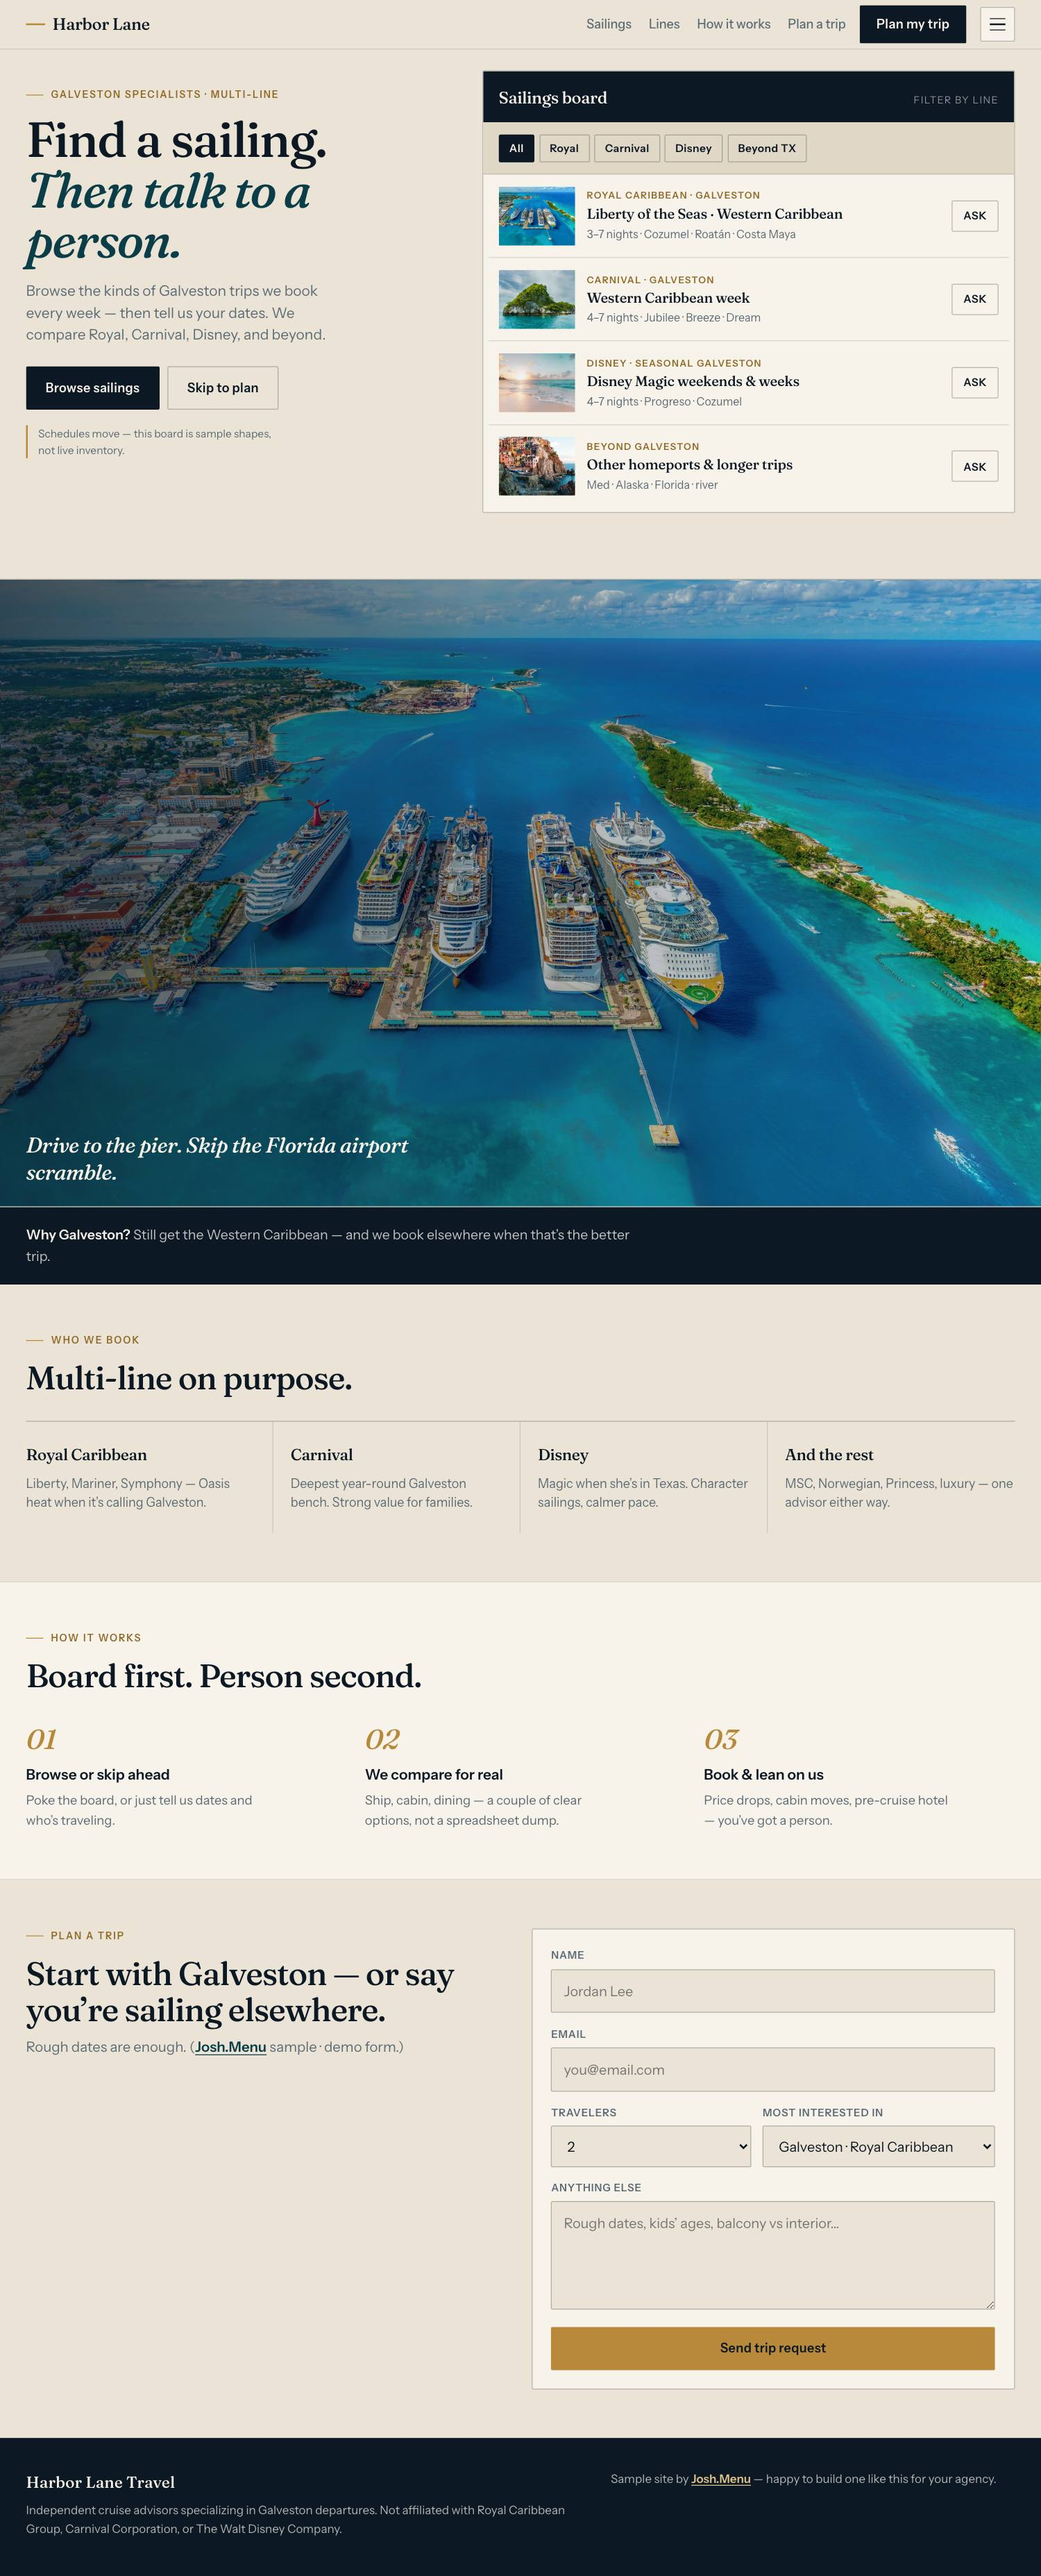
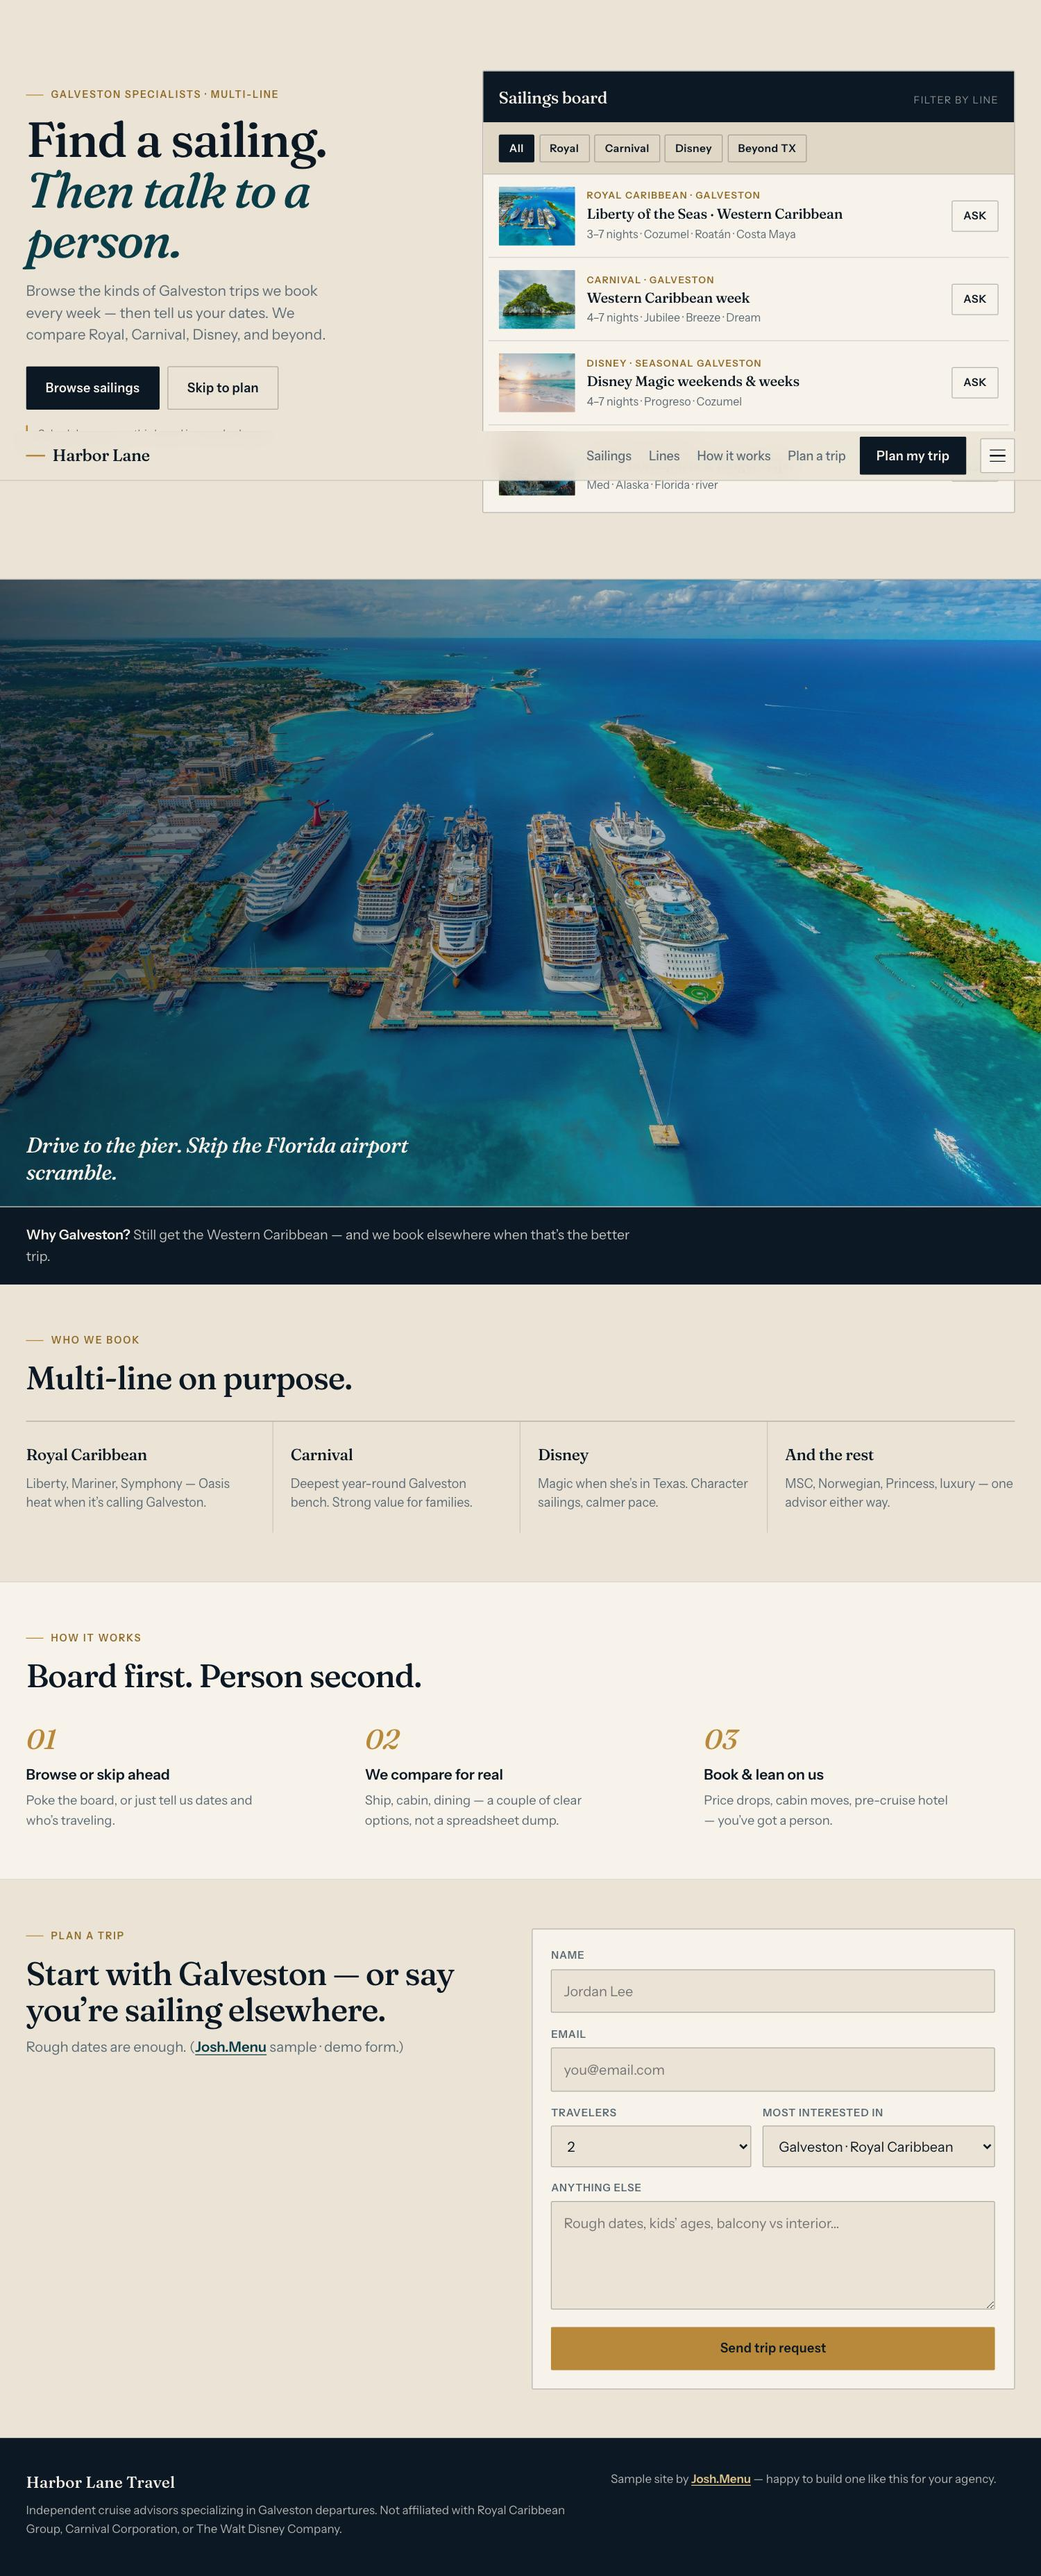
Recapture sample tallshots after warming lazy-loaded images.
Scroll the full page before screenshot so hero/section photos paint in the previews.

diff --git a/index.html b/index.html
@@ -219,7 +219,7 @@
                                 <span class="sample-scroll__url">harborlane.demo</span>
                             </div>
                             <div class="sample-scroll__viewport">
-                                <img class="sample-scroll__page" src="/images/samples/harbor-lane.jpg?v=1" alt="" width="1280" height="3200" loading="lazy" decoding="async">
+                                <img class="sample-scroll__page" src="/images/samples/harbor-lane.jpg?v=2" alt="" width="1280" height="3200" loading="lazy" decoding="async">
                             </div>
                             <span class="sample-card__badge">Sample</span>
                         </div>
@@ -239,7 +239,7 @@
                                 <span class="sample-scroll__url">northline.demo</span>
                             </div>
                             <div class="sample-scroll__viewport">
-                                <img class="sample-scroll__page" src="/images/samples/northline.jpg?v=1" alt="" width="1280" height="3200" loading="lazy" decoding="async">
+                                <img class="sample-scroll__page" src="/images/samples/northline.jpg?v=2" alt="" width="1280" height="3200" loading="lazy" decoding="async">
                             </div>
                             <span class="sample-card__badge">Sample</span>
                         </div>
@@ -259,7 +259,7 @@
                                 <span class="sample-scroll__url">holloway.demo</span>
                             </div>
                             <div class="sample-scroll__viewport">
-                                <img class="sample-scroll__page" src="/images/samples/holloway.jpg?v=1" alt="" width="1280" height="3200" loading="lazy" decoding="async">
+                                <img class="sample-scroll__page" src="/images/samples/holloway.jpg?v=2" alt="" width="1280" height="3200" loading="lazy" decoding="async">
                             </div>
                             <span class="sample-card__badge">Sample</span>
                         </div>

diff --git a/samples/index.html b/samples/index.html
@@ -53,7 +53,7 @@
                             <span class="sample-scroll__url">harborlane.demo</span>
                         </div>
                         <div class="sample-scroll__viewport">
-                            <img class="sample-scroll__page" src="/images/samples/harbor-lane.jpg?v=1" alt="" width="1200" height="3000" loading="eager" decoding="async">
+                            <img class="sample-scroll__page" src="/images/samples/harbor-lane.jpg?v=2" alt="" width="1200" height="3000" loading="eager" decoding="async">
                         </div>
                         <span class="sample-card__badge">Sample</span>
                     </div>
@@ -73,7 +73,7 @@
                             <span class="sample-scroll__url">northline.demo</span>
                         </div>
                         <div class="sample-scroll__viewport">
-                            <img class="sample-scroll__page" src="/images/samples/northline.jpg?v=1" alt="" width="1200" height="3000" loading="lazy" decoding="async">
+                            <img class="sample-scroll__page" src="/images/samples/northline.jpg?v=2" alt="" width="1200" height="3000" loading="lazy" decoding="async">
                         </div>
                         <span class="sample-card__badge">Sample</span>
                     </div>
@@ -93,7 +93,7 @@
                             <span class="sample-scroll__url">holloway.demo</span>
                         </div>
                         <div class="sample-scroll__viewport">
-                            <img class="sample-scroll__page" src="/images/samples/holloway.jpg?v=1" alt="" width="1200" height="3000" loading="lazy" decoding="async">
+                            <img class="sample-scroll__page" src="/images/samples/holloway.jpg?v=2" alt="" width="1200" height="3000" loading="lazy" decoding="async">
                         </div>
                         <span class="sample-card__badge">Sample</span>
                     </div>
